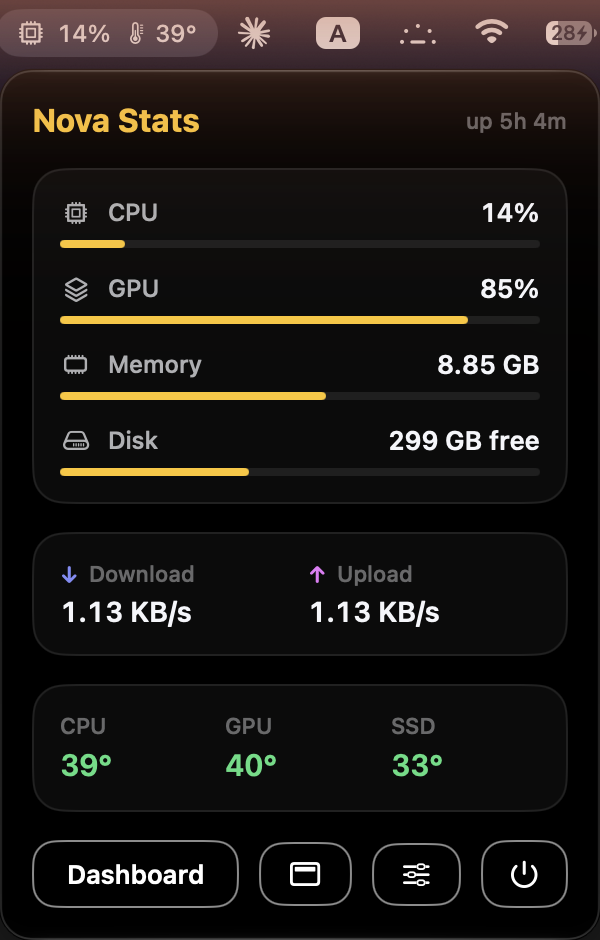
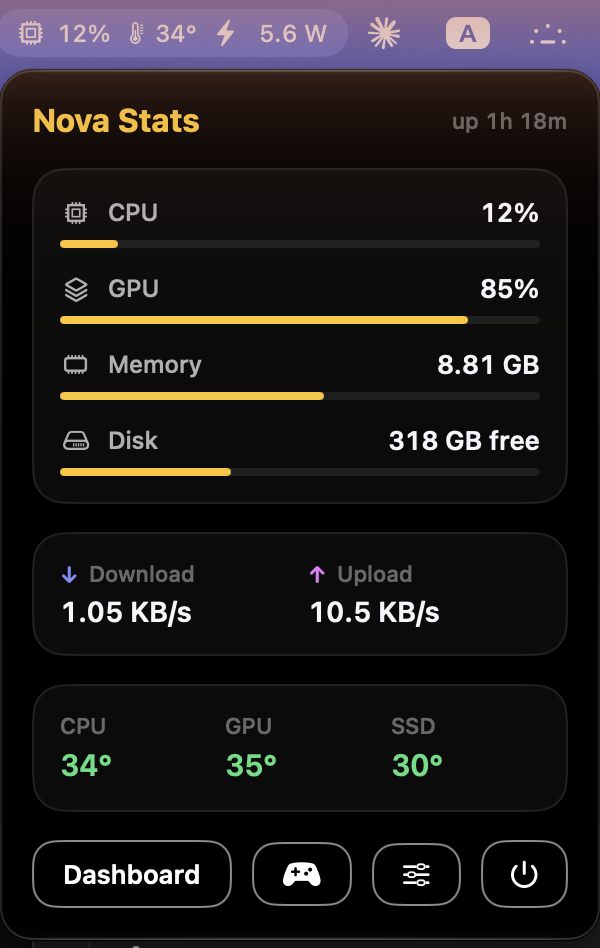
1.1.0: README, website and release notes

diff --git a/docs/index.html b/docs/index.html
@@ -4,7 +4,7 @@
 <meta charset="utf-8">
 <meta name="viewport" content="width=device-width, initial-scale=1">
 <title>Nova Stats — a system monitor for the Mac</title>
-<meta name="description" content="Free, open-source system monitor for the Mac: CPU, GPU, memory, disk, network, battery and temperatures in a dashboard, the menu bar, a HUD and widgets.">
+<meta name="description" content="Free, open-source system monitor for the Mac: CPU, GPU, memory, disk, network, battery and temperatures in a dashboard, the menu bar, widgets and a game mode overlayets.">
 <meta property="og:title" content="Nova Stats">
 <meta property="og:description" content="What your Mac is doing, in Nova's colors. Free and open source.">
 <meta property="og:image" content="https://mammad-ali.github.io/nova-stats/dashboard.png">
@@ -156,7 +156,7 @@
     <img class="icon" src="icon.png" alt="The Nova Stats icon: a chip with Nova's yellow star rising from it">
     <h1>Nova Stats</h1>
     <p class="tagline">What your Mac is doing, in Nova's colors.</p>
-    <p class="sub">CPU, GPU, memory, disk, network, battery and temperatures, in a dashboard, the menu bar, a small HUD over your other apps and desktop widgets.</p>
+    <p class="sub">CPU, GPU, memory, disk, network, battery and temperatures, in a dashboard, the menu bar, desktop widgets and a game mode overlay.</p>
     <div class="actions">
       <a class="pill" href="https://github.com/Mammad-Ali/nova-stats/releases/latest/download/Nova-Stats.dmg">
         <svg width="18" height="18" viewBox="0 0 24 24" fill="none" stroke="currentColor" stroke-width="2.4" stroke-linecap="round" stroke-linejoin="round"><path d="M12 4v12M6 11l6 6 6-6M5 20h14"/></svg>
@@ -170,7 +170,7 @@
 
   <section class="block" id="features">
     <h2>Everything at a glance</h2>
-    <p class="lead">Read straight from the chip's own counters and sensors, once a second, using about 1% of one CPU core when the window is closed.</p>
+    <p class="lead">Read straight from the chip's own counters and sensors, once a second, using about 1–2% of one CPU core when the window is closed.</p>
     <div class="grid">
       <div class="card">
         <svg viewBox="0 0 24 24"><rect x="5" y="5" width="14" height="14" rx="3"/><path d="M9 2v3M15 2v3M9 19v3M15 19v3M2 9h3M2 15h3M19 9h3M19 15h3"/></svg>
@@ -212,7 +212,7 @@
     <div class="showcase">
       <div class="card">
         <img src="menu.png" alt="The menu bar panel">
-        <p class="caption">The menu bar, with a quick panel, an optional mini CPU graph and a HUD switch</p>
+        <p class="caption">The menu bar, with a quick panel, an optional mini CPU graph and a game mode button</p>
       </div>
       <div class="stack">
         <div class="card">
@@ -220,8 +220,12 @@
           <p class="caption">Four desktop widgets</p>
         </div>
         <div class="card">
-          <img src="hud.png" alt="The HUD in a column: CPU, GPU, RAM, CPU temperature and power, with no box behind it" style="max-width:280px;margin:0 auto">
-          <p class="caption">The HUD floats over every app, even in full screen, with no box behind it, and clicks go right through it</p>
+          <img src="hud.png" alt="The game mode overlay in a column: CPU, GPU, RAM, CPU temperature and power, with no box behind it" style="max-width:280px;margin:0 auto">
+          <p class="caption">Game mode's overlay sits on top of your game, even in full screen, with no box behind it</p>
+        </div>
+        <div class="card">
+          <img src="report.png" alt="A session report: time played, average and peak CPU, GPU, power and temperatures, and a temperature chart" style="max-width:420px;margin:0 auto">
+          <p class="caption">The report you get when you stop game mode</p>
         </div>
       </div>
     </div>
@@ -229,7 +233,7 @@
       <div class="card">
         <svg viewBox="0 0 24 24"><rect x="3" y="6" width="18" height="12" rx="3"/><path d="M7 10h1M11 10h1M15 10h2M7 14h10"/></svg>
         <h3>Shortcuts from anywhere</h3>
-        <p><code>⌃⌥N</code> opens the dashboard and <code>⌃⌥H</code> shows or hides the HUD, from any app. You can change both.</p>
+        <p><code>⌃⌥N</code> opens the dashboard, <code>⌃⌥G</code> starts game mode and <code>⌃⌥H</code> hides its overlay, from any app. You can change all three.</p>
       </div>
       <div class="card">
         <svg viewBox="0 0 24 24"><path d="M6 8a6 6 0 0 1 12 0c0 7 3 9 3 9H3s3-2 3-9M10 21h4"/></svg>
@@ -270,10 +274,11 @@
       <details><summary>Is Nova Stats free?</summary><p>Yes, completely. It's open source under the MIT license, so you can read the code, change it and share it.</p></details>
       <details><summary>Why does macOS say it can't check the app?</summary><p>Apple only vouches for apps from developers who pay for a yearly account. Nova Stats isn't signed that way, so the first time macOS blocks it. Open System Settings, go to Privacy &amp; Security, scroll down and press Open Anyway. You only do this once.</p></details>
       <details><summary>Does it send my data anywhere?</summary><p>No. Nova Stats never connects to the internet. Everything it measures stays on your Mac.</p></details>
-      <details><summary>Does it slow my Mac down?</summary><p>Barely. With the dashboard closed it uses about 1% of one CPU core. The open dashboard with moving stars uses about 7%; turn the stars off in Settings if you like.</p></details>
+      <details><summary>Does it slow my Mac down?</summary><p>Barely. With the dashboard closed it uses about 1–2% of one CPU core: anything you can't see is measured less often. The open dashboard with moving stars uses about 7%; turn the stars off in Settings if you like.</p></details>
       <details><summary>Where do the temperatures come from?</summary><p>Straight from the chip's own sensors (the SMC and the system's temperature sensors), the same ones macOS uses to run the fans. The CPU number is the average of the core sensors.</p></details>
       <details><summary>Which Macs does it work on?</summary><p>Macs with Apple Silicon (M1 to M5) on macOS 15 or newer. On Intel Macs most numbers work, but some temperatures may be missing.</p></details>
-      <details><summary>Why do the widgets update only every few minutes?</summary><p>macOS decides how often widgets may refresh. For numbers that change every second, use the menu bar or the HUD.</p></details>
+      <details><summary>What is game mode?</summary><p>Turn it on from the menu bar or with ⌃⌥G, or let it start by itself when a game goes full screen. While it's on, an overlay shows your stats over the game and warns you if the Mac gets so hot that macOS slows it down. When you stop, you get a report: how long you played and the average and peak CPU, GPU, temperatures and power. macOS doesn't let other apps read a game's FPS, so that isn't shown.</p></details>
+      <details><summary>Why do the widgets update only every few minutes?</summary><p>macOS decides how often widgets may refresh. For numbers that change every second, use the menu bar or game mode's overlay.</p></details>
       <details><summary>Why are some apps missing from the Apps list?</summary><p>Without an administrator password macOS only lets an app look at your own processes, not the system's. Everything you run yourself is there.</p></details>
       <details><summary>Why don't alerts show up?</summary><p>macOS needs your permission for notifications. Open System Settings, then Notifications, find Nova Stats and allow them. Settings → Alerts in the app has a button that takes you there.</p></details>
       <details><summary>How do I remove it?</summary><p>Quit it from the menu bar panel, then drag Nova Stats from Applications to the Bin. Its settings are in <code>~/Library/Preferences/com.mammadali.novastats.plist</code>.</p></details>

diff --git a/README.md b/README.md
@@ -7,7 +7,7 @@
 **What your Mac is doing, in Nova's colors.**
 
 CPU, GPU, memory, disk, network, battery and temperatures, in a dashboard,
-the menu bar, a small HUD over your other apps and desktop widgets.
+the menu bar, desktop widgets and a game mode overlay.
 
 ![macOS](https://img.shields.io/badge/macOS-15%2B-black)
 ![SwiftUI](https://img.shields.io/badge/SwiftUI-native-black)
@@ -51,30 +51,36 @@ It's a native SwiftUI app, made for Apple Silicon.
 
 | Menu bar | Widgets |
 |:---:|:---:|
-| <img src="docs/menu.png" alt="The menu bar panel with CPU, GPU, memory and disk bars, network speed, temperatures and buttons for the dashboard, HUD, settings and quit" width="300"> | <img src="docs/widgets.png" alt="The four widgets: CPU, Memory, System and Dashboard" width="100%"> |
+| <img src="docs/menu.png" alt="The menu bar panel with CPU, GPU, memory and disk bars, network speed, temperatures and buttons for the dashboard, game mode, settings and quit" width="300"> | <img src="docs/widgets.png" alt="The four widgets: CPU, Memory, System and Dashboard" width="100%"> |
 
 The menu bar shows the numbers you pick, with an optional tiny CPU graph. Its panel
-has buttons for the dashboard, the HUD and settings.
+has buttons for the dashboard, game mode and settings.
 
-The **HUD** floats over every app, even full screen ones. It has no box behind it,
-just outlined text, and clicks go right through it. You pick the corner, row or
-column, and what it shows.
+**Game mode** puts an overlay on top of your game, even in full screen: outlined text
+with no box behind it, and clicks go right through it. You pick the corner, row or
+column, and what it shows. It warns you when the Mac gets so hot that macOS slows it
+down, and when you stop you get a report: how long you played and the average and peak
+CPU, GPU, temperatures and power. Turn it on from the menu bar, with a shortcut, or let
+it start by itself when a game goes full screen.
 
 <p align="center">
-  <img src="docs/hud.png" alt="The HUD in a column: CPU, GPU, RAM, CPU temperature and power" width="260">
+  <img src="docs/hud.png" alt="The game mode overlay in a column: CPU, GPU, RAM, CPU temperature and power" width="260">
+  &nbsp;&nbsp;
+  <img src="docs/report.png" alt="A session report: time played, average and peak CPU, GPU, power and temperatures, and a temperature chart" width="380">
 </p>
 
-**Shortcuts** work from any app: <kbd>⌃⌥N</kbd> opens or closes the dashboard and
-<kbd>⌃⌥H</kbd> shows or hides the HUD. You can change both in Settings.
+**Shortcuts** work from any app: <kbd>⌃⌥N</kbd> opens or closes the dashboard,
+<kbd>⌃⌥G</kbd> starts or stops game mode and <kbd>⌃⌥H</kbd> shows or hides its overlay.
+You can change all three in Settings.
 
 **Alerts** tell you when the Mac runs hot, memory gets tight, the disk is almost full
 or the CPU has been busy for a minute. Each one at most every half hour.
 
-Everything is optional and set up in **Settings**, which also has an About page with
-the common questions:
+Everything is optional and set up in **Settings**, a panel inside the dashboard
+(<kbd>⌘,</kbd>), which also has an About page with the common questions:
 
 <p align="center">
-  <img src="docs/settings.png" alt="Settings, General section: dashboard, temperature unit, shortcuts and app options" width="500">
+  <img src="docs/settings.png" alt="The Settings panel inside the dashboard, on the Game mode section: start, start automatically, the overlay's corner, layout and stats" width="640">
 </p>
 
 ## Download
@@ -122,8 +128,10 @@ and in the app under Settings → About.
   (whole system) and `PDTR` (charger) power keys
 - **Apps**: `proc_pid_rusage` for every process, grouped by the `.app` they belong to
 - **Shortcuts**: Carbon hot keys, which need no accessibility permission
-- **Stars**: drawn with Metal, so the open dashboard costs about 7% of one CPU core and
-  a closed one about 1%. The shader compiles at launch, so the project builds
+- **Background work**: anything you can't see right now (a closed dashboard, a tab
+  you're not on) is measured every 5 to 30 seconds instead of every second, so with
+  only the menu bar it costs about 1–2% of one CPU core
+- **Stars**: drawn with Metal, so the open dashboard costs about 7% of one CPU core. The shader compiles at launch, so the project builds
   without Xcode's separate Metal toolchain
 - **Widgets**: the app writes a small JSON file to `~/Library/Application Support/Nova Stats`
   and the sandboxed widget reads it through a read-only exception. An app group would

diff --git a/.github/release-notes.md b/.github/release-notes.md
@@ -1,21 +1,25 @@
-The first version you can download.
+Game mode, a lighter app in the background, and Settings inside the dashboard.
 
 **Install:** download `Nova-Stats.dmg`, open it and drag Nova Stats into Applications.
 The first time, macOS says it can't check the app, because it isn't signed with a paid
 Apple developer account. Open System Settings → Privacy & Security, scroll down and press
-**Open Anyway**. You only do this once.
+**Open Anyway**. You only do this once. If you already have 1.0, just replace it.
 
-What's in it:
+What's new:
 
-- Dashboard with CPU, GPU, memory, disk, network, battery and sensors tabs, over Nova's 3D starfield
-- Menu bar numbers you pick, with an optional mini CPU graph, and a quick panel
-- A HUD over every app with no box behind it, in any corner
-- Four desktop widgets
-- Battery health, charge cycles, time left, and how many watts the whole Mac uses
-- Every connected drive, with an Eject button
-- The apps using the most memory or CPU
-- Shortcuts from any app: ⌃⌥N for the dashboard, ⌃⌥H for the HUD
-- Alerts when the Mac runs hot, memory gets tight or the disk is almost full
-- °C or °F
+- **Game mode.** An overlay with your stats sits on top of the game, even in full screen.
+  Turn it on from the menu bar or with ⌃⌥G, or let it start by itself when a game goes
+  full screen. ⌃⌥H hides the overlay for a moment.
+- **Overheat warning.** The overlay tells you when the Mac gets so hot that macOS starts
+  slowing it down.
+- **Session report.** When you stop, you see how long you played and the average and peak
+  CPU, GPU, temperatures and power, plus how long heat held the Mac back.
+- **Lighter in the background.** Anything you can't see is measured less often, so with
+  only the menu bar it now uses about 1–2% of one CPU core instead of about 4%, and less
+  memory.
+- **Settings inside the dashboard.** A compact panel (⌘,) instead of a separate window,
+  so it never turns into a tab in full screen.
+
+The overlay now only shows during game mode.
 
 Needs macOS 15 or newer. Made for Apple Silicon.
